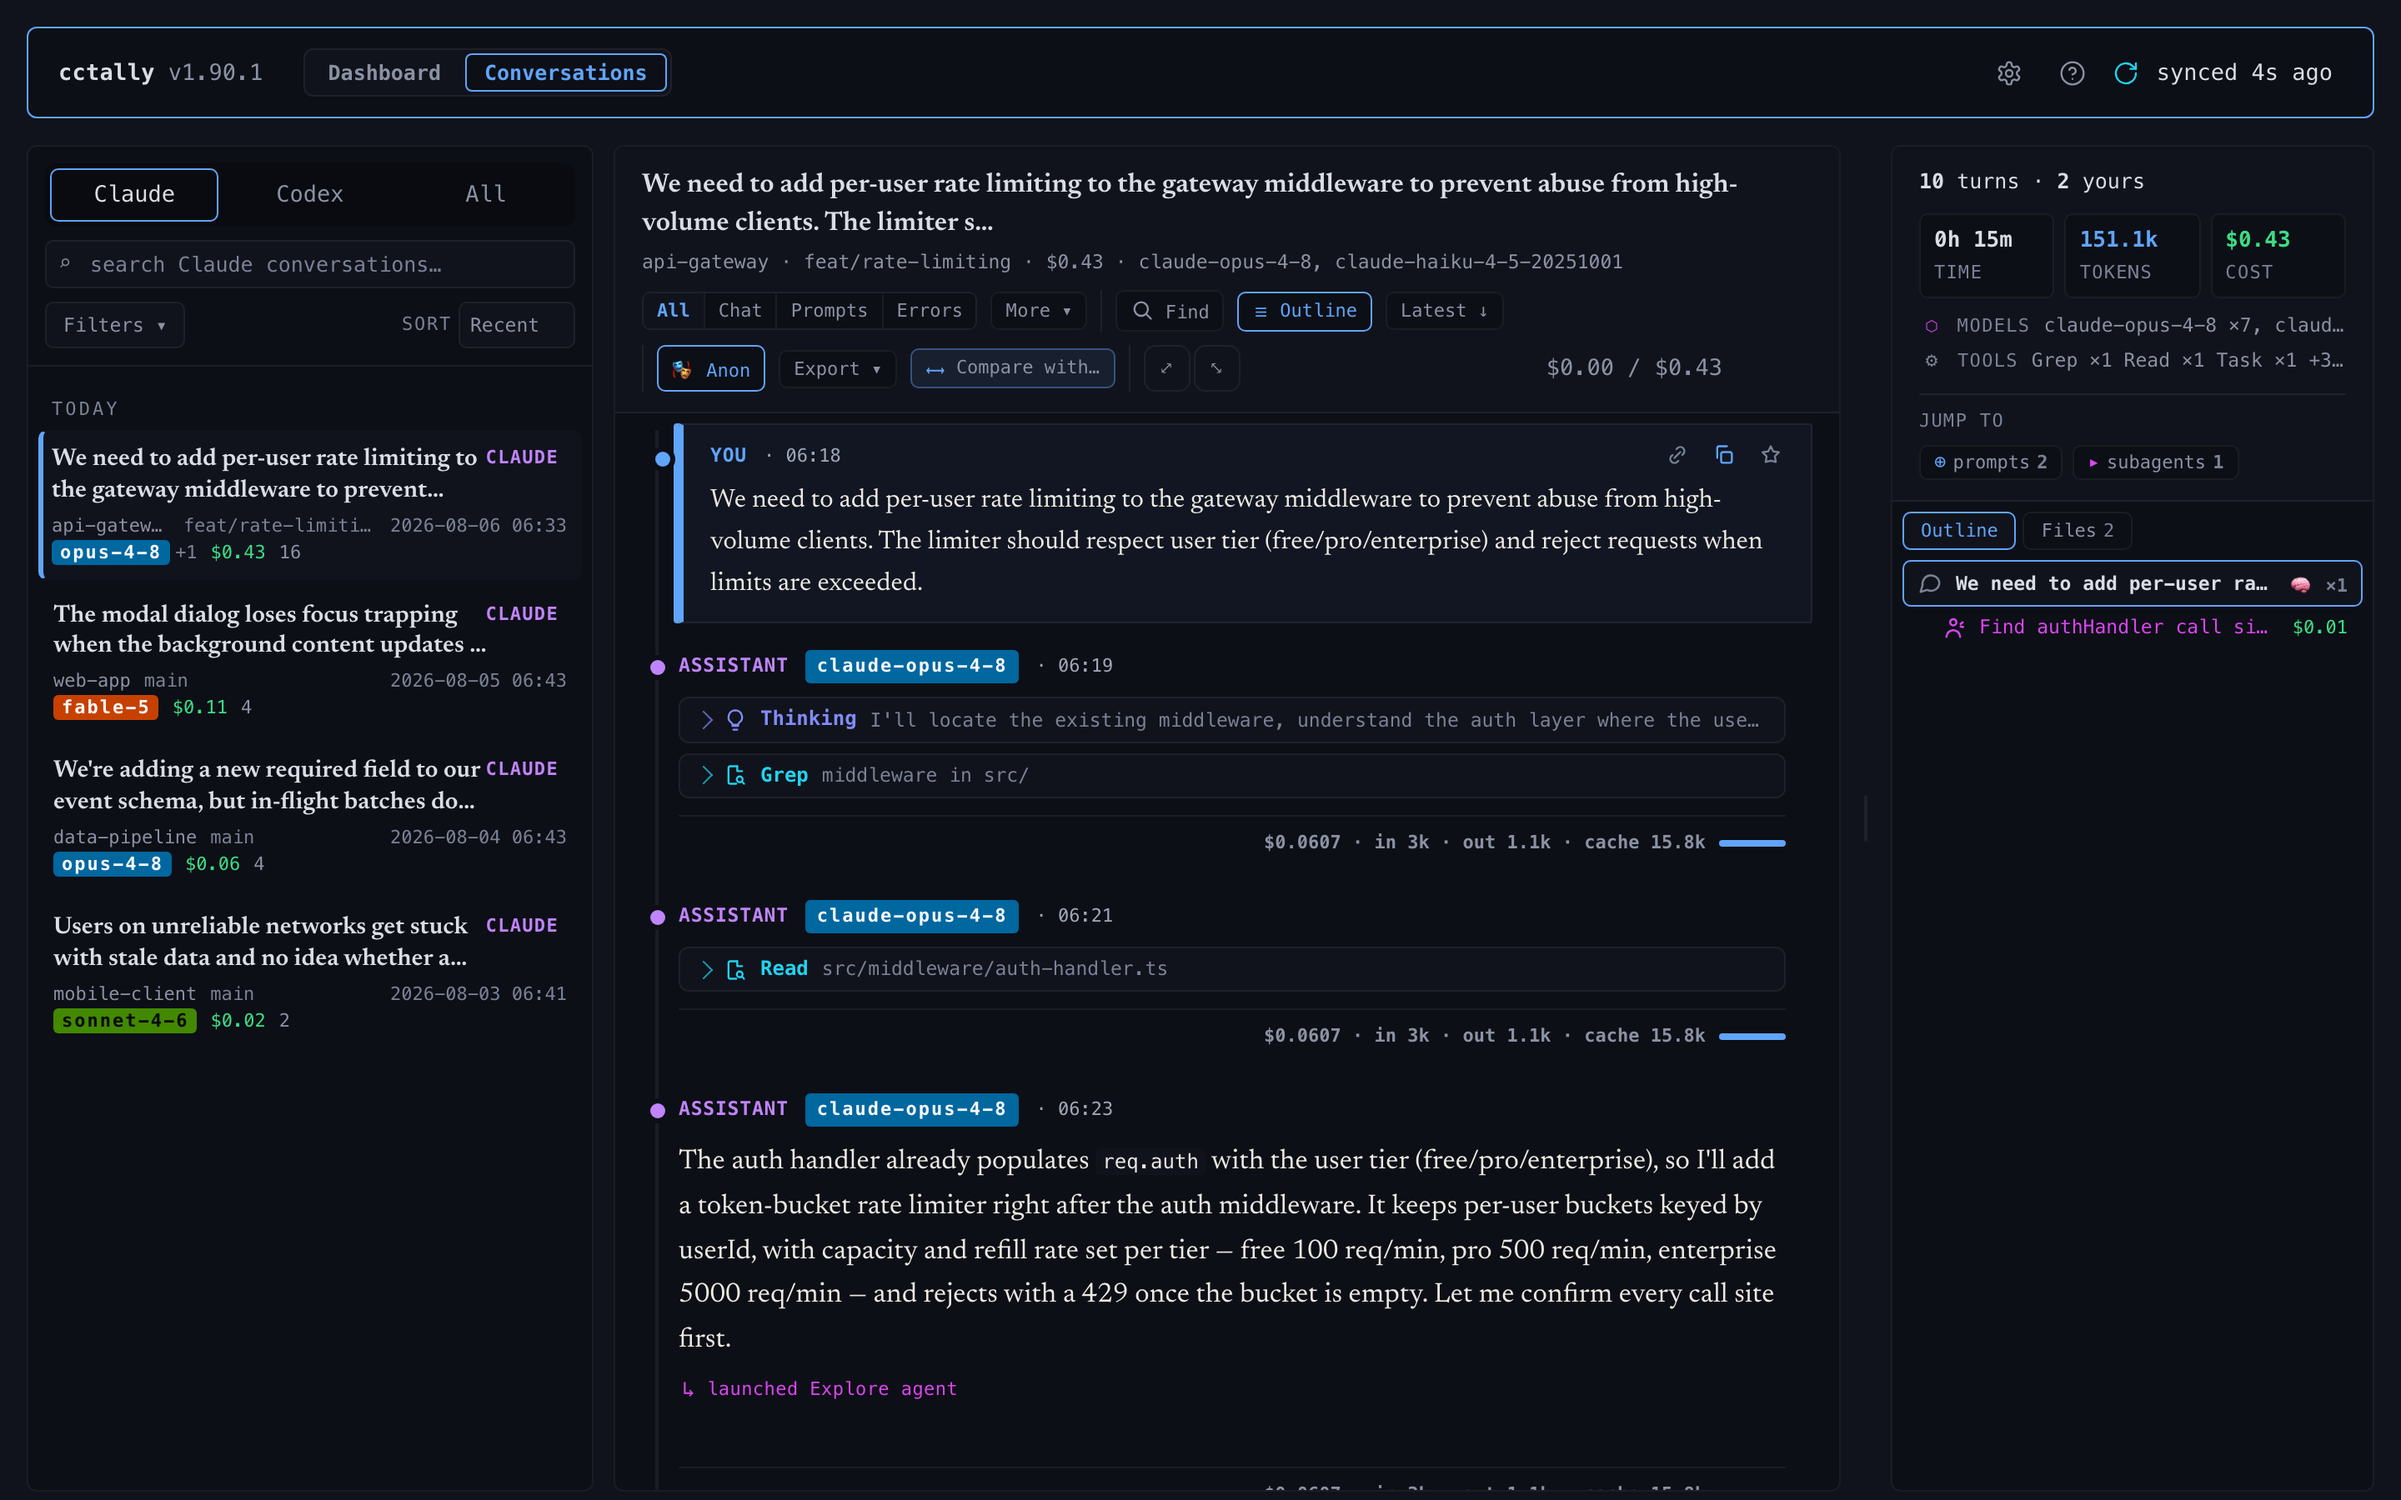
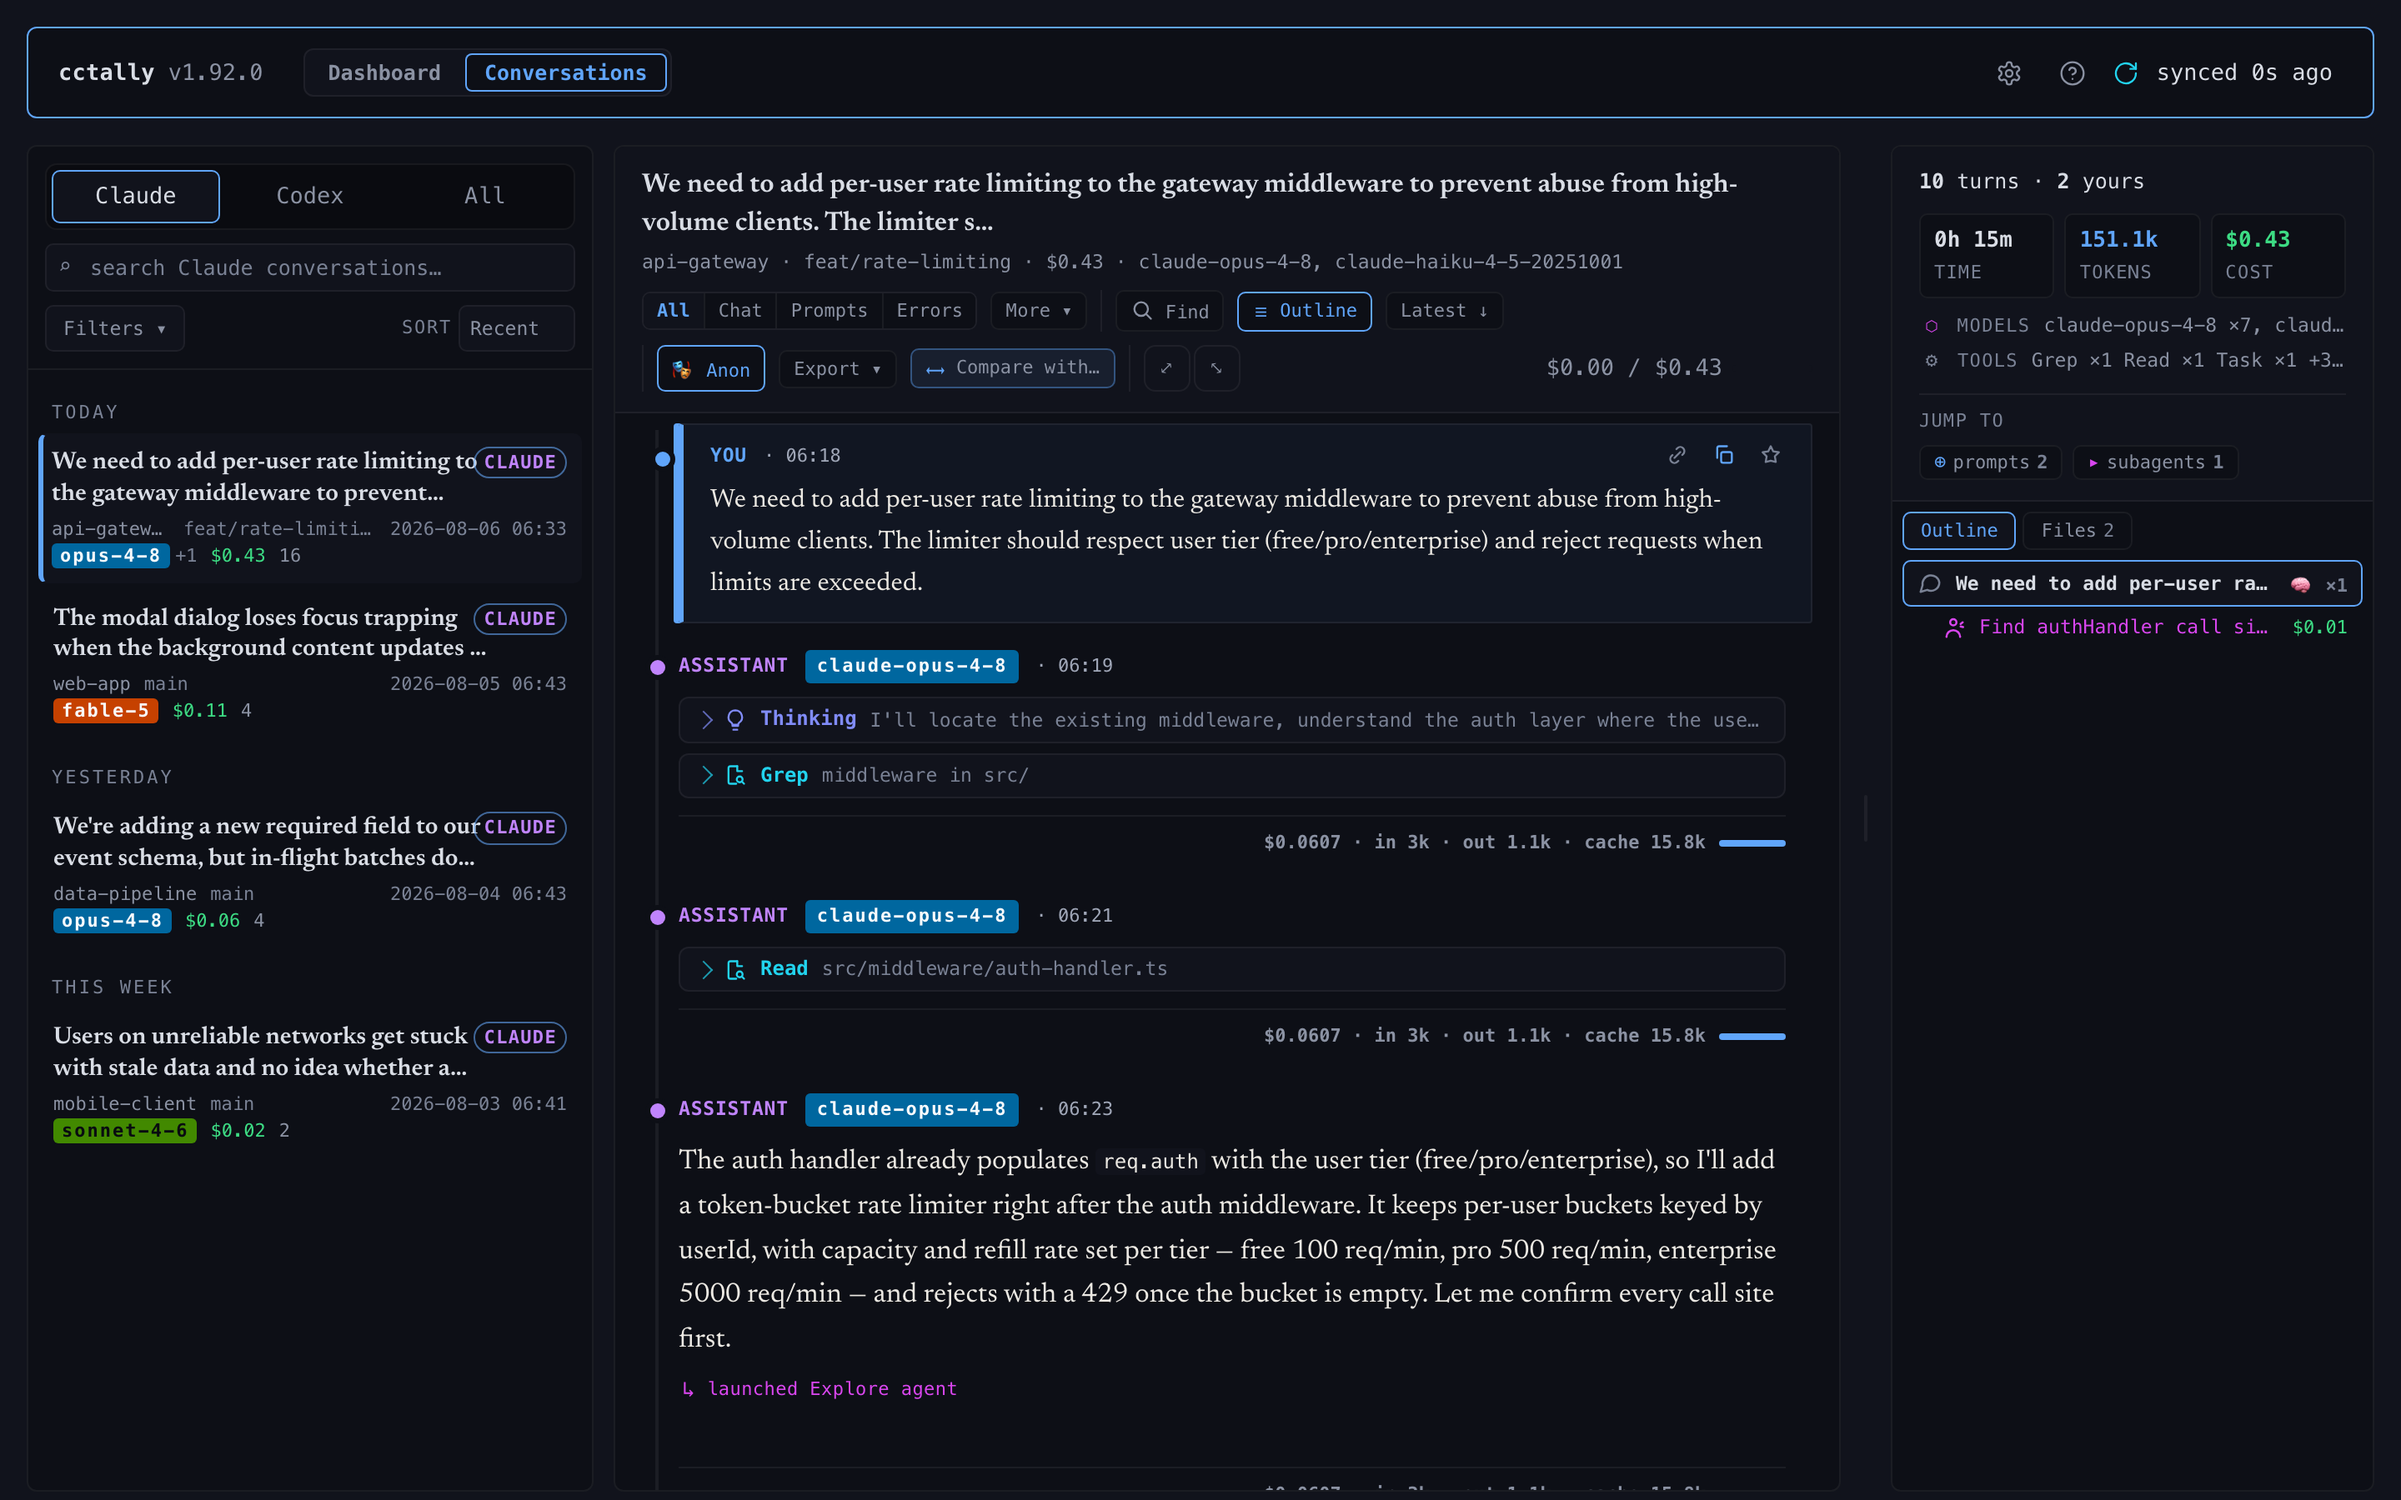
readme refresh for v1.92.0

diff --git a/README.md b/README.md
@@ -30,9 +30,11 @@ Your Claude Code plan meters you with a percentage that creeps up all week. ccta
 </p>
 
 <!-- cctally:latest-stable:begin -->
-**Latest stable: v1.90.1** (2026-08-02)
+**Latest stable: v1.92.0** (2026-08-05)
 
-- Internal (maintainer-only): the public release snapshot no longer ships the issue-triage pytest modules without the private workflow implementation they import. Those tests now stay behind the same mirror boundary as their `.agent-workflows` dependencies, preventing collection failures across the public Python matrix.
+- Add per-run bearer authentication for non-loopback dashboards, with fragment-to-HttpOnly-cookie browser bootstrap and a restart-only Settings/CLI opt-out (#282).
+- Add account-scoped conversation browsing, search, reading, export, and permalinks to the dashboard and `cctally transcript`, while preserving the existing all-account and single-account output shapes (#347).
+- Long Codex conversations now open with two concurrent data requests instead of issuing a third detail request just to repeat totals already available from the outline. On the same 3,733-row conversation, the first painted row improved from 784 ms to 421, 429 ms while live-tail streaming remained connected (#477).
 <!-- cctally:latest-stable:end -->
 
 ## Quick start
